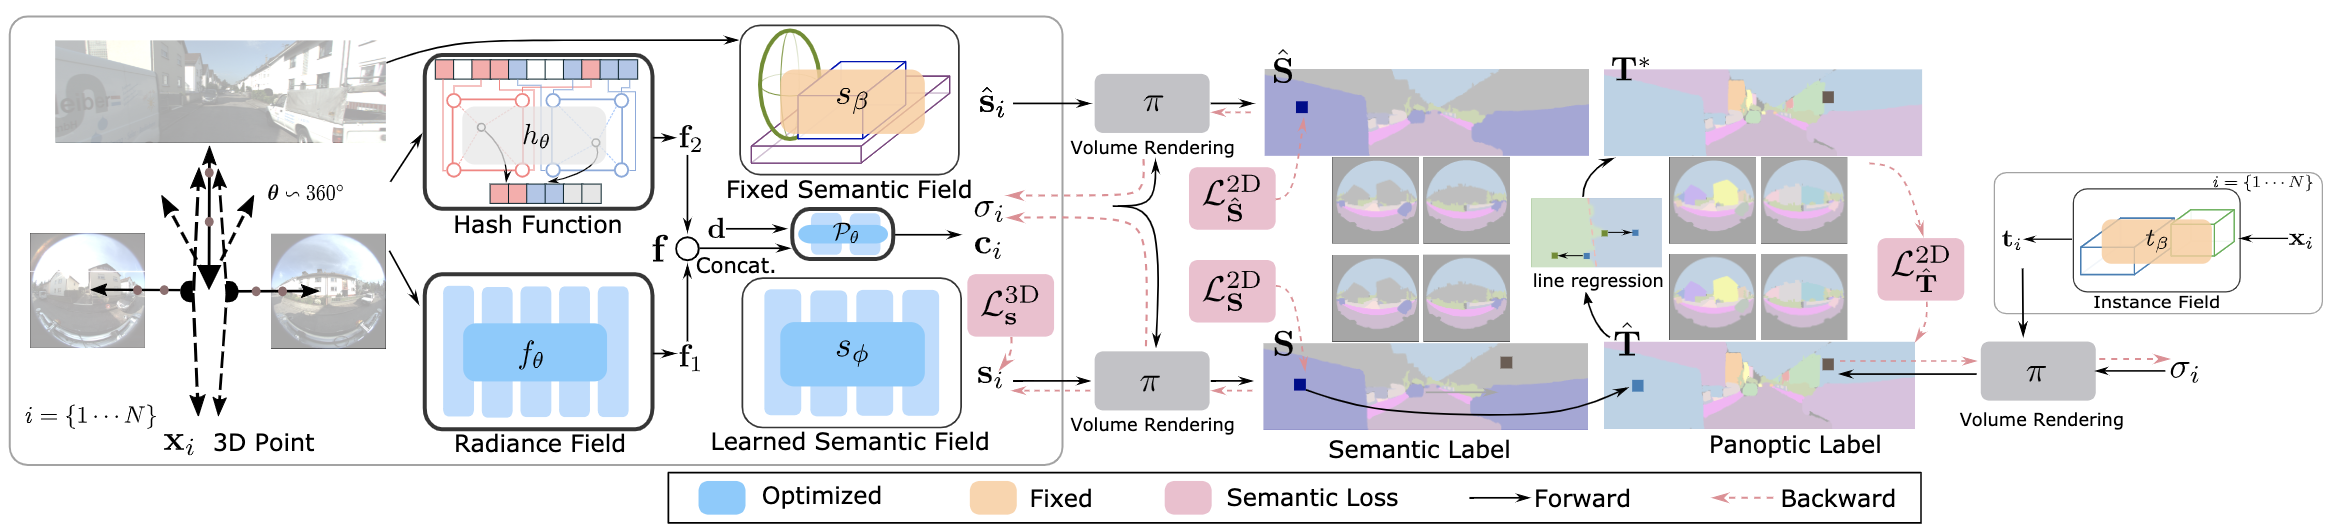
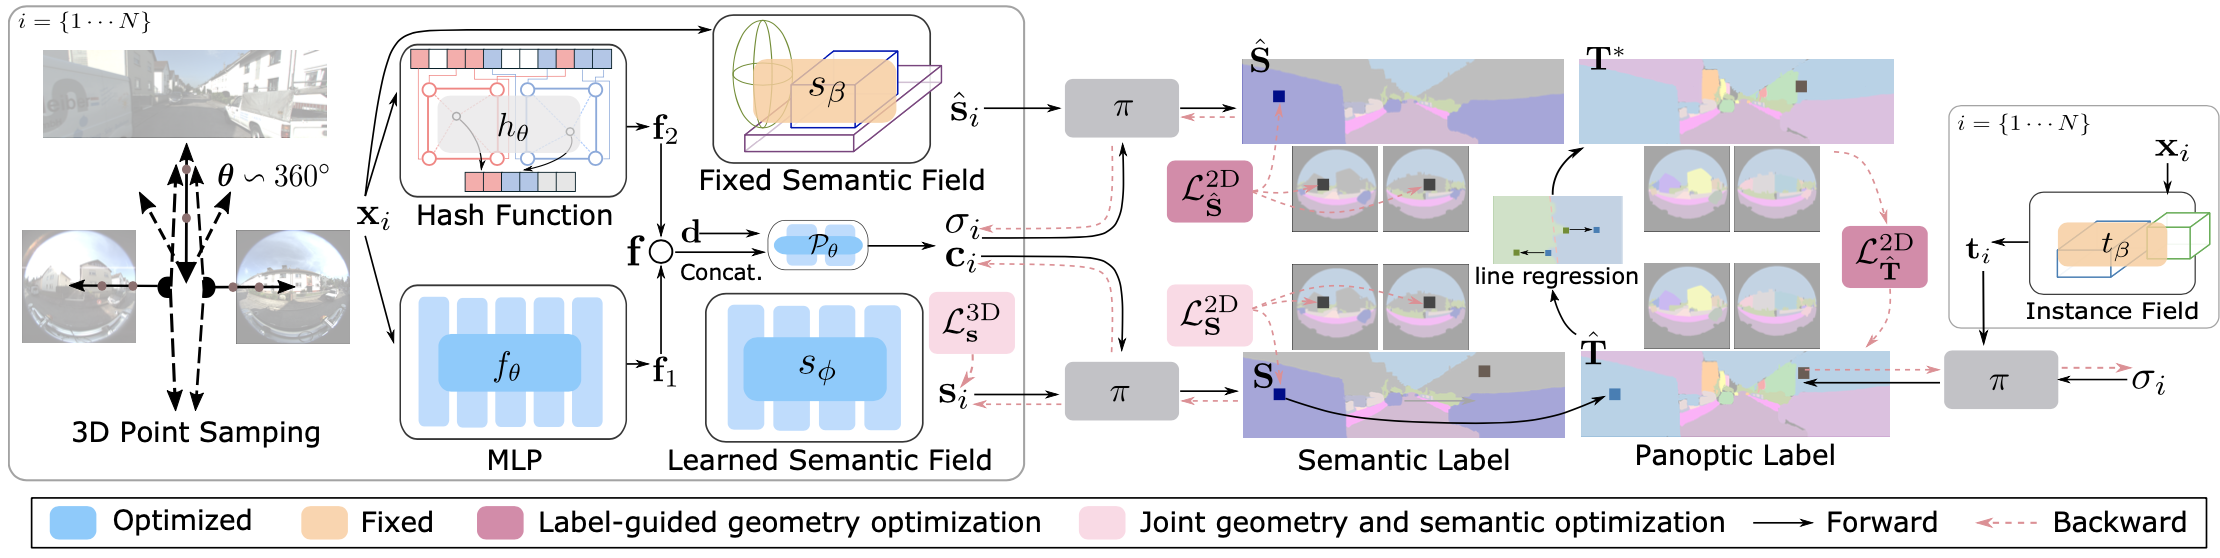
update

diff --git a/projects/panopticnerf360/index.html b/projects/panopticnerf360/index.html
@@ -85,15 +85,14 @@
         <h3>Overall Framework</h3>
         <hr style="margin-top:0px">
         <img src="https://fuxiao0719.github.io/projects/panopticnerf360/images/method.png" alt="framework" width="100%">
-        <p class="text-left" style="margin-top:19px;font-size: 19px;">At each 3D location sampled in a 360 scene, we
-          formulate scene feature combining MLPs features and multi-resolution hash encoding features to unify their
-          merits, <b>inductive smoothness for semantics and expressive local details for appearance</b>. Then we
-          leverage <b>dual semantic fields</b>
-          to obtain two
-          semantic categorical logits. Our method allows for rendering panoptic labels by combining the learned semantic
-          field and a <b>fixed instance field</b> determined by the 3D bounding primitives. The losses applied to fixed
-          semantic and instance
-          field improve the geometry. The learned semantic loss serves to improve the 3D semantic predictions.</p>
+        <p class="text-left" style="margin-top:19px;font-size: 19px;">At each 3D location, we combine scene features
+          obtained from a deep MLP and multi-resolution hash grids to jointly model geometry, appearance and semantics.
+          We leverage <b>dual semantic fields</b> to obtain two semantic categorical logits. Our method allows for
+          rendering panoptic labels by combining the learned semantic field and a <b>fixed instance field</b> determined
+          by the 3D bounding primitives. The losses applied to fixed semantic and instance field improve the geometry.
+          The learned semantic loss serves to improve the 3D semantic predictions, which allows for resolving the label
+          ambiguity at the bbox intersection regions.
+        </p>
       </div>
     </div>
   </div>
